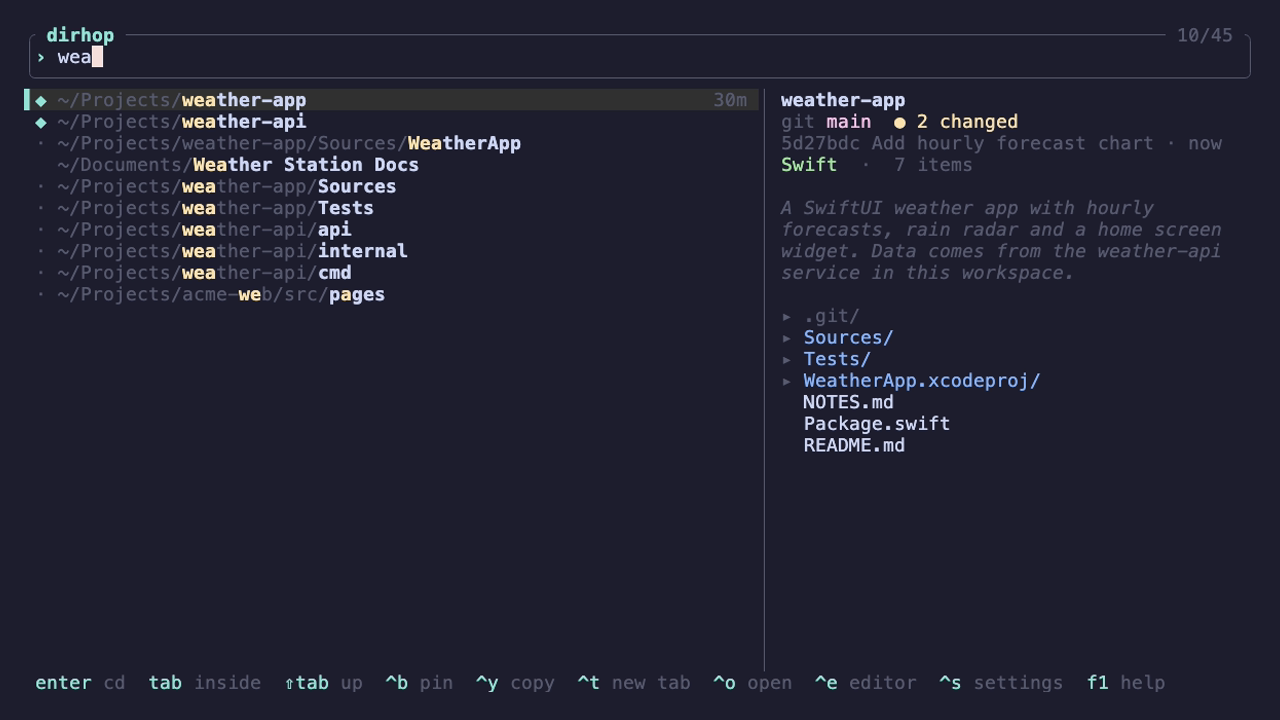
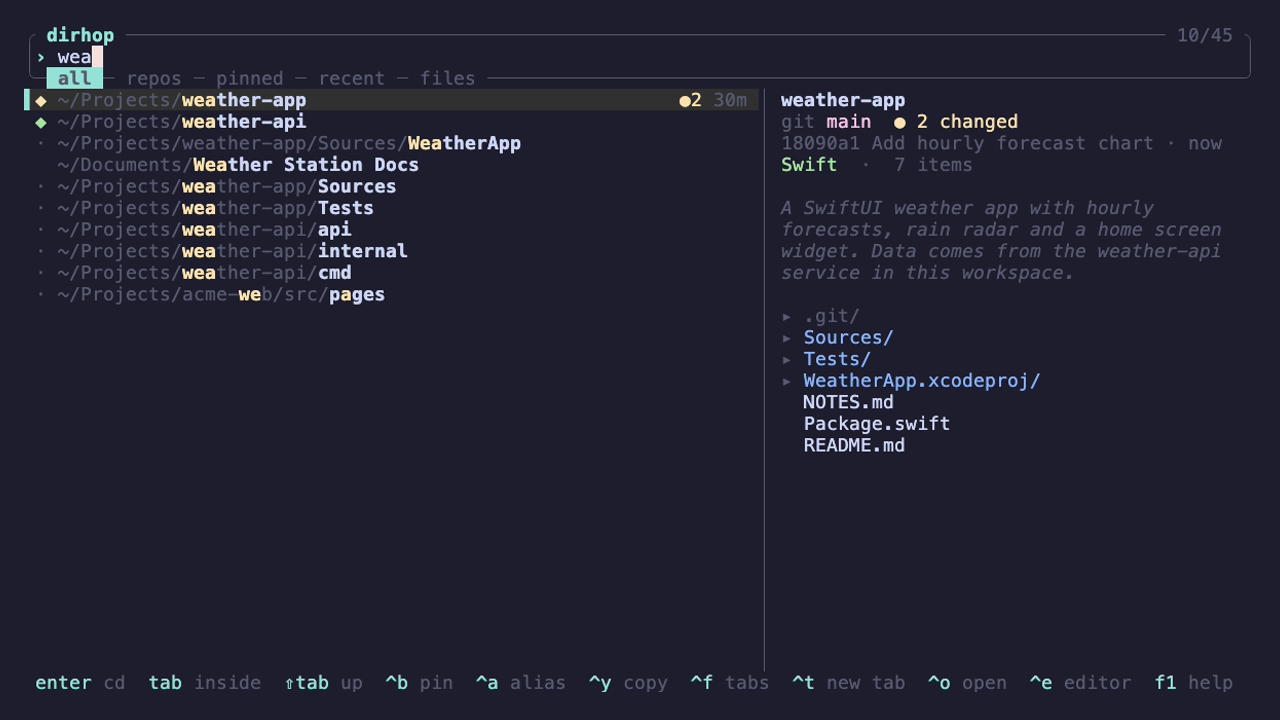
Release 0.3.0: document tabs, files, aliases and the new settings
Updates the README and refreshes the screenshots and the demo.

diff --git a/README.md b/README.md
@@ -26,13 +26,15 @@ A fuzzy folder picker for your terminal, written in Rust. Type a few letters, hi
 **Finds every folder, not just the ones you've visited**
 
 - Searches your whole home folder. Most folder jumpers only know folders you've already been to.
-- Opens instantly with the folder index from last time, then rescans in the background and adds new folders or drops deleted ones while you type.
+- Opens instantly with the folder index from last time. When that index is older than ten minutes, a rescan runs in the background and adds new folders or drops deleted ones while you type.
+- Tabs narrow the list to git repos, pinned folders, recently visited ones or files. The files tab searches files under the same folders and takes you to the folder that holds the one you pick.
 - Git repos and folders in `~/Projects`, `~/Developer`, `~/code` and similar rank above the rest.
 
 **Learns where you go**
 
 - With an empty search you see pinned folders first, then the ones you visited recently, each with how long ago.
 - <kbd>Ctrl</kbd>+<kbd>B</kbd> pins a folder so it stays at the top.
+- <kbd>Ctrl</kbd>+<kbd>A</kbd> gives a folder an alias. `hop @schule` then jumps there from anywhere, and typing `@` in the picker lists your aliases.
 - Folders you pick often move up. If you use [zoxide](https://github.com/ajeetdsouza/zoxide), its history counts too.
 
 **Skips the picker when it can**
@@ -42,7 +44,9 @@ A fuzzy folder picker for your terminal, written in Rust. Type a few letters, hi
 
 **Shows what's inside**
 
-- The preview shows the git branch, how many files changed, commits ahead or behind, the last commit, the detected language, the first lines of the README and the folder's contents.
+- The preview shows the git branch, how many files changed, commits ahead or behind, the last commit, the detected language, the first lines of the README and the folder's contents. For a file it shows the first lines.
+- Repos on screen get a marker with their number of changed files. Git can be switched off entirely in the settings.
+- READMEs that only exist in OneDrive or iCloud are not opened, so the preview never starts a download.
 
 <img src="assets/screenshot.png" alt="dirhop picker with the search wea: weather-app is highlighted, the preview shows branch main, 2 changed files, the last commit, Swift, the README's first line and the folder contents" width="820">
 
@@ -53,6 +57,8 @@ A fuzzy folder picker for your terminal, written in Rust. Type a few letters, hi
 **Stays out of your way**
 
 - Pick a command name (`hop`, `p`, `j`…) and a shortcut in a small settings screen. No config files to edit.
+- Works with the mouse: scroll, click to select, double-click to jump, click a tab to switch.
+- Colour themes, one of them for light terminals, and a compact mode that opens the picker in the rows below your prompt.
 - Updates itself from GitHub releases with SHA-256 verification. You can turn this off.
 
 ## Install
@@ -120,6 +126,7 @@ with zsh, bash, fish or PowerShell.
 |---|---|
 | `hop` | open the picker |
 | `hop api` | jump to the best match for `api`, or open the picker if it's not clear |
+| `hop @name` | jump to the folder with that alias |
 | `hop -` | back to the previous folder |
 | `hop ..`, `hop ~/x` | paths work like `cd` |
 | <kbd>Ctrl</kbd>+<kbd>G</kbd> | open the picker from any prompt, even mid-command |
@@ -130,20 +137,24 @@ with zsh, bash, fish or PowerShell.
 
 | Key | Action |
 |---|---|
-| type | fuzzy search (`'exact`, `^prefix`, `suffix$` and `!not` work too) |
-| <kbd>Enter</kbd> | cd into the folder |
+| type | fuzzy search (`'exact`, `^prefix`, `suffix$` and `!not` work too, `@name` searches aliases) |
+| <kbd>Enter</kbd> | cd into the folder (for a file: into its folder) |
+| <kbd>Ctrl</kbd>+<kbd>F</kbd>, <kbd>Ctrl</kbd>+<kbd>←</kbd> <kbd>→</kbd> | switch tabs: all, repos, pinned, recent, files |
 | <kbd>↑</kbd> <kbd>↓</kbd> / <kbd>Ctrl</kbd>+<kbd>P</kbd> <kbd>Ctrl</kbd>+<kbd>N</kbd> | move |
 | <kbd>Tab</kbd> | search inside the highlighted folder |
 | <kbd>Shift</kbd>+<kbd>Tab</kbd> | go up a level |
 | <kbd>Ctrl</kbd>+<kbd>B</kbd> | pin or unpin |
+| <kbd>Ctrl</kbd>+<kbd>A</kbd> | set or remove the folder's alias |
 | <kbd>Ctrl</kbd>+<kbd>Y</kbd> | copy the path |
 | <kbd>Ctrl</kbd>+<kbd>T</kbd> | open in a new terminal tab |
 | <kbd>Ctrl</kbd>+<kbd>O</kbd> | open in Finder, Explorer or your file manager |
-| <kbd>Ctrl</kbd>+<kbd>E</kbd> | open in your editor (VS Code, Cursor, Zed, IntelliJ, Neovim…) |
+| <kbd>Ctrl</kbd>+<kbd>E</kbd> | open in your editor (VS Code, Cursor, Zed, IntelliJ, Neovim…); a file opens itself |
 | <kbd>Ctrl</kbd>+<kbd>S</kbd> | settings |
 | <kbd>Ctrl</kbd>+<kbd>R</kbd> | rescan |
 | <kbd>?</kbd> / <kbd>F1</kbd> | all keys |
 | <kbd>Esc</kbd> | cancel |
+
+The mouse works too: the wheel scrolls, a click selects, a double click jumps.
 
 ## Settings
 
@@ -161,6 +172,10 @@ Run `dirhop setup` or press <kbd>Ctrl</kbd>+<kbd>S</kbd> inside the picker.
 | Hidden folders | off |
 | Respect `.gitignore` | on |
 | Editor | the first one found on your PATH |
+| Colours | `cyan` (also `violet`, `green`, `amber`, `light`, `mono`) |
+| Compact picker | off (on: 16 rows below the prompt instead of full screen) |
+| Git status | on (off: no git process runs; the branch still shows) |
+| Aliases | none; set them with <kbd>Ctrl</kbd>+<kbd>A</kbd> or as `name=folder` |
 | Jump on a clear match | on |
 | Automatic updates | on, checked at most once a day |
 
@@ -192,9 +207,13 @@ A program can't change your shell's working directory, so dirhop draws its UI on
 prints the chosen folder on stdout. A small shell function then `cd`s there.
 
 The scan uses the same parallel walker as ripgrep and covers about 5,000 folders in under 100 ms.
-Every finished scan is saved as a folder index. The picker shows that index on its first frame
-and lets the next scan correct it, and `hop name` and `dirhop query` answer from the index
-alone in about 10 ms. When it is older than ten minutes, those two refresh it in the background.
+Every finished scan is saved as a folder index. The picker shows that index on its first frame.
+If the index is younger than ten minutes it skips the scan, otherwise it scans in the background
+and corrects the list. `hop name` and `dirhop query` answer from the index alone in about 10 ms
+and refresh an old index in the background. Repos are recognised by the `.git` entries the walker
+passes anyway, so the scan doesn't look for `.git` in every folder.
+
+Run with `DIRHOP_TRACE=1` to print how long each startup step took.
 
 Matching uses the fuzzy matcher from the Helix editor. Ranking combines match quality, whether
 the folder is a git repo, pinned or inside a priority folder, how deep it is, and how often and
@@ -202,8 +221,13 @@ how recently you've picked it. While you keep typing, only the previous results 
 `hop name` jumps when the best match leads the next one by a clear margin, which in practice
 means an exact folder name.
 
-Git details in the preview come from `git status` on a background thread, so moving through
-the list never waits for git.
+The folder listing, the README and `git status` for the preview load on background threads.
+A local folder usually answers within the same frame; a slow one (network share, cloud folder)
+shows a placeholder while the list keeps moving. Zoxide's history is read in the background too.
+
+On Windows the picker writes each frame in one go, because every separate write goes through
+ConPTY and makes frames appear line by line. dirhop also keeps its output handles from being
+inherited by the git and update processes it starts, so PowerShell can `cd` as soon as you pick.
 
 Updates come from this repo's GitHub releases. dirhop downloads the archive for your platform,
 checks it against the published SHA-256 and swaps the binary atomically. Set
